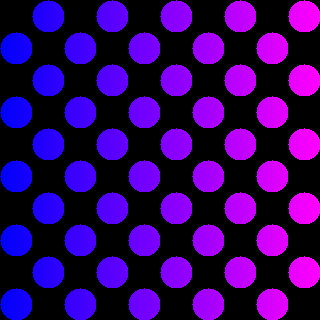
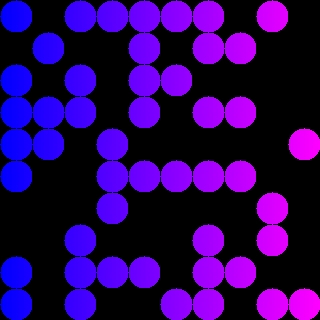
Trying to implement RLE compression, slightly broken

diff --git a/fileio.c b/fileio.c
@@ -30,6 +30,60 @@ void free_life(plife gol) {
     free(gol);
 }
 
+char *convert_to_char_table(plife gol, unsigned int *out_count) {
+    char *ct = NULL;
+    unsigned int ct_pos = 0;
+    char current = 0, counter = 0;
+
+    unsigned int ct_count = gol->width * gol->height / 8;
+    if ((gol->width * gol->height) % 8 != 0) ct_count++;
+
+    *out_count = ct_count;
+
+    ct = (char*)malloc(ct_count * sizeof(char));
+
+    for (int y = 0; y < gol->height; y++) {
+        for (int x = 0; x < gol->width; x++) {
+            current |= gol->data[x][y] << counter;
+
+            counter++;
+
+            if (counter == 8) {
+                ct[ct_pos] = current;
+
+                current = 0;
+                counter = 0;
+                ct_pos++;
+            }
+        }
+    }
+
+    if (counter != 8) {
+        ct[ct_pos] = current;
+    }
+
+    return ct;
+}
+
+void convert_from_char_table(plife gol, char *ct) {
+    char item;
+
+    unsigned int ct_count = gol->width * gol->height / 8;
+    if ((gol->width * gol->height) % 8 != 0) ct_count++;
+
+    for (int i = 0; i < ct_count; i++) {
+        item = ct[ct_count];
+
+        for (int j = 0; j < 8; j++) {
+            int x = IDX_TO_X(8 * i + j, gol->width);
+            int y = IDX_TO_Y(8 * i + j, gol->width);
+
+            if (x >= gol->width || y >= gol->height) break;
+            gol->data[x][y] = ((item >> j) & 1) ? 1 : 0;
+        }
+    }
+}
+
 plife load_life(char *file_name) {
     plife gol;
 
@@ -56,25 +110,31 @@ plife load_life(char *file_name) {
     // Create the life structure
     gol = create_life(w, h);
 
-    // Read the board data
-    if ((w * h) % 8) {
-        ccount = (w * h) / 8 + 1;
-    } else {
-        ccount = (w * h) / 8;
-    }
-    for (int i = 0; i < ccount; i++) {
-        fread(&item, sizeof(char), 1, f);
+    // Prep the char table
+    unsigned int ct_count = gol->width * gol->height / 8;
+    if ((gol->width * gol->height) % 8 != 0) ct_count++;
 
-        for (int j = 0; j < 8; j++) {
-            int x = IDX_TO_X(8 * i + j, w);
-            int y = IDX_TO_Y(8 * i + j, w);
+    char *ct = (char*)malloc(ct_count * sizeof(char));
+    unsigned int ct_pos = 0;
+    char rle_chain_length = 0, rle_chain_body = 0;
 
-            if (x >= w || y >= h) break;
-            gol->data[x][y] = ((item >> j) & 1) ? 1 : 0;
+    // Unwrap RLE data
+    while(!feof(f) && ct_pos < ct_count) {
+        fread(&rle_chain_length, sizeof(char), 1, f);
+        fread(&rle_chain_body, sizeof(char), 1, f);
+
+        printf("%d, %d\n", rle_chain_length, rle_chain_body);
+
+        for (int i = 0; i < rle_chain_length; i++) {
+            ct[ct_pos] = rle_chain_body;
+            ct_pos++;
         }
     }
 
-    fclose(f);
+    // Put the char data back
+    convert_from_char_table(gol, ct);
+
+    free(ct);
 
     return gol;
 }
@@ -92,25 +152,41 @@ int save_life(char *file_name, plife gol) {
     fwrite(&(gol->width), sizeof(unsigned int), 1, f);
     fwrite(&(gol->height), sizeof(unsigned int), 1, f);
 
-    // Write the board
-    for (int y = 0; y < gol->height; y++) {
-        for (int x = 0; x < gol->width; x++) {
-            current |= gol->data[x][y] << counter;
+    // Prep the char table
+    unsigned int ct_count = 0;
+    char *ct = convert_to_char_table(gol, &ct_count);
 
-            counter++;
+    // Do RLE to it
+    char rle_chain_length = 0, rle_chain_body = 0;
 
-            if (counter == 8) {
-                fwrite(&current, sizeof(char), 1, f);
+    for (int i = 0; i < ct_count; i++) {
+        if (rle_chain_length && rle_chain_body != ct[i]) {
+            fwrite(&rle_chain_length, sizeof(char), 1, f);
+            fwrite(&rle_chain_body, sizeof(char), 1, f);
 
-                current = 0;
-                counter = 0;
-            }
+            printf("%d, %d\n", rle_chain_length, rle_chain_body);
+
+            rle_chain_length = 0;
+        }
+
+        if (!rle_chain_length) {
+            rle_chain_length = 1;
+            rle_chain_body = ct[i];
+        } else if (rle_chain_length && rle_chain_body == ct[i]) {
+            rle_chain_length++;
         }
     }
 
-    if (counter != 0) {
-        fwrite(&(current), sizeof(char), 1, f);
+    if (rle_chain_length) {
+        fwrite(&rle_chain_length, sizeof(char), 1, f);
+        fwrite(&rle_chain_body, sizeof(char), 1, f);
+
+        printf("%d, %d\n", rle_chain_length, rle_chain_body);
     }
+
+    printf("\n");
+
+    free(ct);
 
     fclose(f);
 

diff --git a/fileio_old.c b/fileio_old.c
@@ -1,0 +1,118 @@
+#include <stdio.h>
+#include <string.h>
+#include <stdlib.h>
+
+#include "life.h"
+
+#define IDX_TO_X(idx, width) ((idx) % width)
+#define IDX_TO_Y(idx, width) ((idx) / width)
+
+plife create_life(unsigned int w, unsigned int h) {
+    plife gol = malloc(sizeof(life));
+    char **board = malloc(w * sizeof(char*));
+
+    for (int x = 0; x < w; x++) {
+        board[x] = malloc(h * sizeof(char));
+    }
+
+    gol->width = w;
+    gol->height = h;
+    gol->data = board;
+
+    return gol;
+}
+
+void free_life(plife gol) {
+    for (int x = 0; x < gol->width; x++) {
+        free(gol->data[x]);
+    }
+    free(gol->data);
+    free(gol);
+}
+
+plife load_life(char *file_name) {
+    plife gol;
+
+    unsigned int w, h;
+    char **board;
+
+    char magic[5];
+    char item;
+    unsigned int ccount;
+
+    FILE *f = fopen(file_name, "r");
+
+    // Check whether the Certified Magic Prefix™ is present
+    fread(magic, sizeof(char), 4, f);
+    if (strcmp(magic, "LIFE")) {
+        fclose(f);
+        return NULL;
+    }
+
+    // Read the board dimensions
+    fread(&w, sizeof(unsigned int), 1, f);
+    fread(&h, sizeof(unsigned int), 1, f);
+
+    // Create the life structure
+    gol = create_life(w, h);
+
+    // Read the board data
+    if ((w * h) % 8) {
+        ccount = (w * h) / 8 + 1;
+    } else {
+        ccount = (w * h) / 8;
+    }
+    for (int i = 0; i < ccount; i++) {
+        fread(&item, sizeof(char), 1, f);
+
+        for (int j = 0; j < 8; j++) {
+            int x = IDX_TO_X(8 * i + j, w);
+            int y = IDX_TO_Y(8 * i + j, w);
+
+            if (x >= w || y >= h) break;
+            gol->data[x][y] = ((item >> j) & 1) ? 1 : 0;
+        }
+    }
+
+    fclose(f);
+
+    return gol;
+}
+
+int save_life(char *file_name, plife gol) {
+    FILE *f = fopen(file_name, "w");
+    if (!f) return 1; // Summertime Sadness
+
+    char current = 0, counter = 0;
+
+    // Write the Certified Magic Prefix™
+    fwrite("LIFE", sizeof(char), strlen("LIFE"), f);
+
+    // Write the board dimensions
+    fwrite(&(gol->width), sizeof(unsigned int), 1, f);
+    fwrite(&(gol->height), sizeof(unsigned int), 1, f);
+
+    // Write the board
+    for (int y = 0; y < gol->height; y++) {
+        for (int x = 0; x < gol->width; x++) {
+            current |= gol->data[x][y] << counter;
+
+            counter++;
+
+            if (counter == 8) {
+                fwrite(&current, sizeof(char), 1, f);
+
+                current = 0;
+                counter = 0;
+            }
+        }
+    }
+
+    if (counter != 0) {
+        fwrite(&(current), sizeof(char), 1, f);
+    }
+
+    fclose(f);
+
+    return 0;
+}

diff --git a/life.h b/life.h
@@ -26,6 +26,7 @@ plife generate_life(plife previous);
 plife load_life(char *file_name);
 int save_life(char *file_name, plife gol);
 
+
 float default_coloring_func(int x, int y, plife gol, plifepng info, int channel);
 plifepng create_life_png_info(unsigned int scale, png_coloring_func f);
 int save_life_png(char *file_name, plife gol, plifepng info);

diff --git a/life.c b/life.c
@@ -17,7 +17,7 @@
 
 // Handle problematic coordinates with grace™
 char get_value_at_coord(plife gol, int x, int y, int wrap_edges, int *did_modify_coords) {
-    int _x = x, _y = y;
+    int _x = x, _y = y;,
 
     *did_modify_coords = 0;
 

diff --git a/io/filetest.c b/io/filetest.c
@@ -35,7 +35,7 @@ int main() {
 
     for (int x = 0; x < gol->width; x++) {
         for (int y = 0; y < gol->height; y++) {
-            gol->data[x][y] = (x + y) % 2;
+            gol->data[x][y] = rand() % 2;
         }
     }
 
